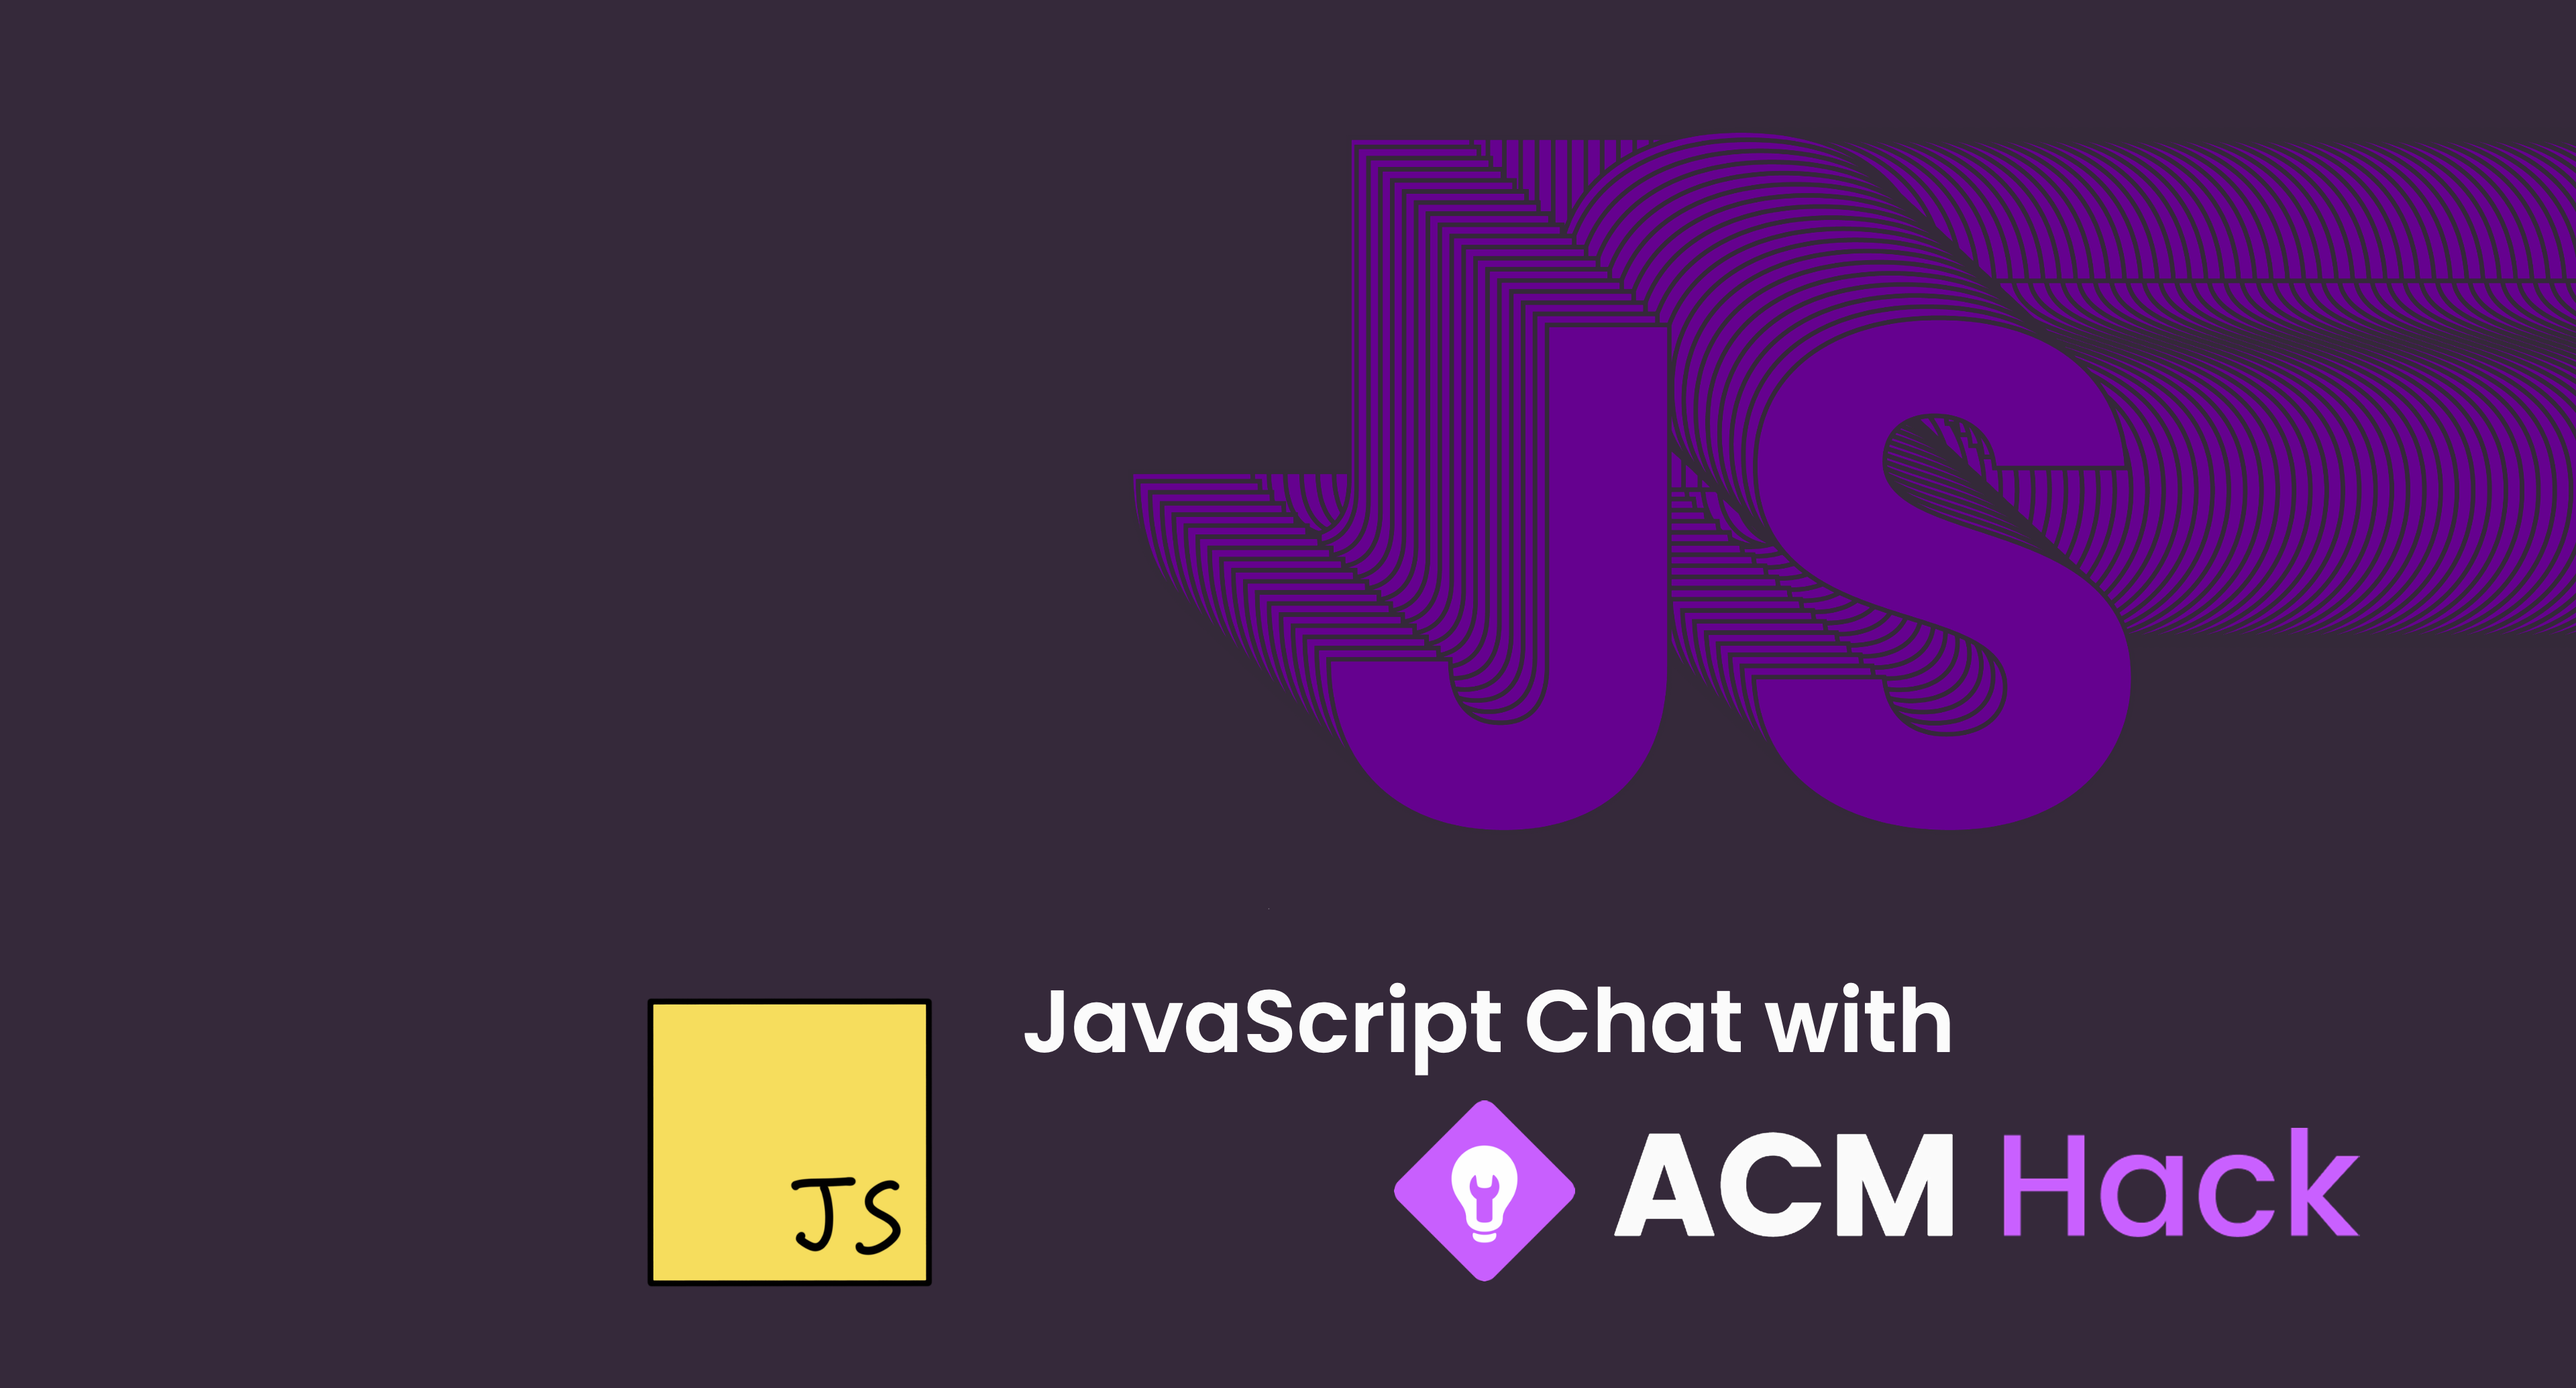
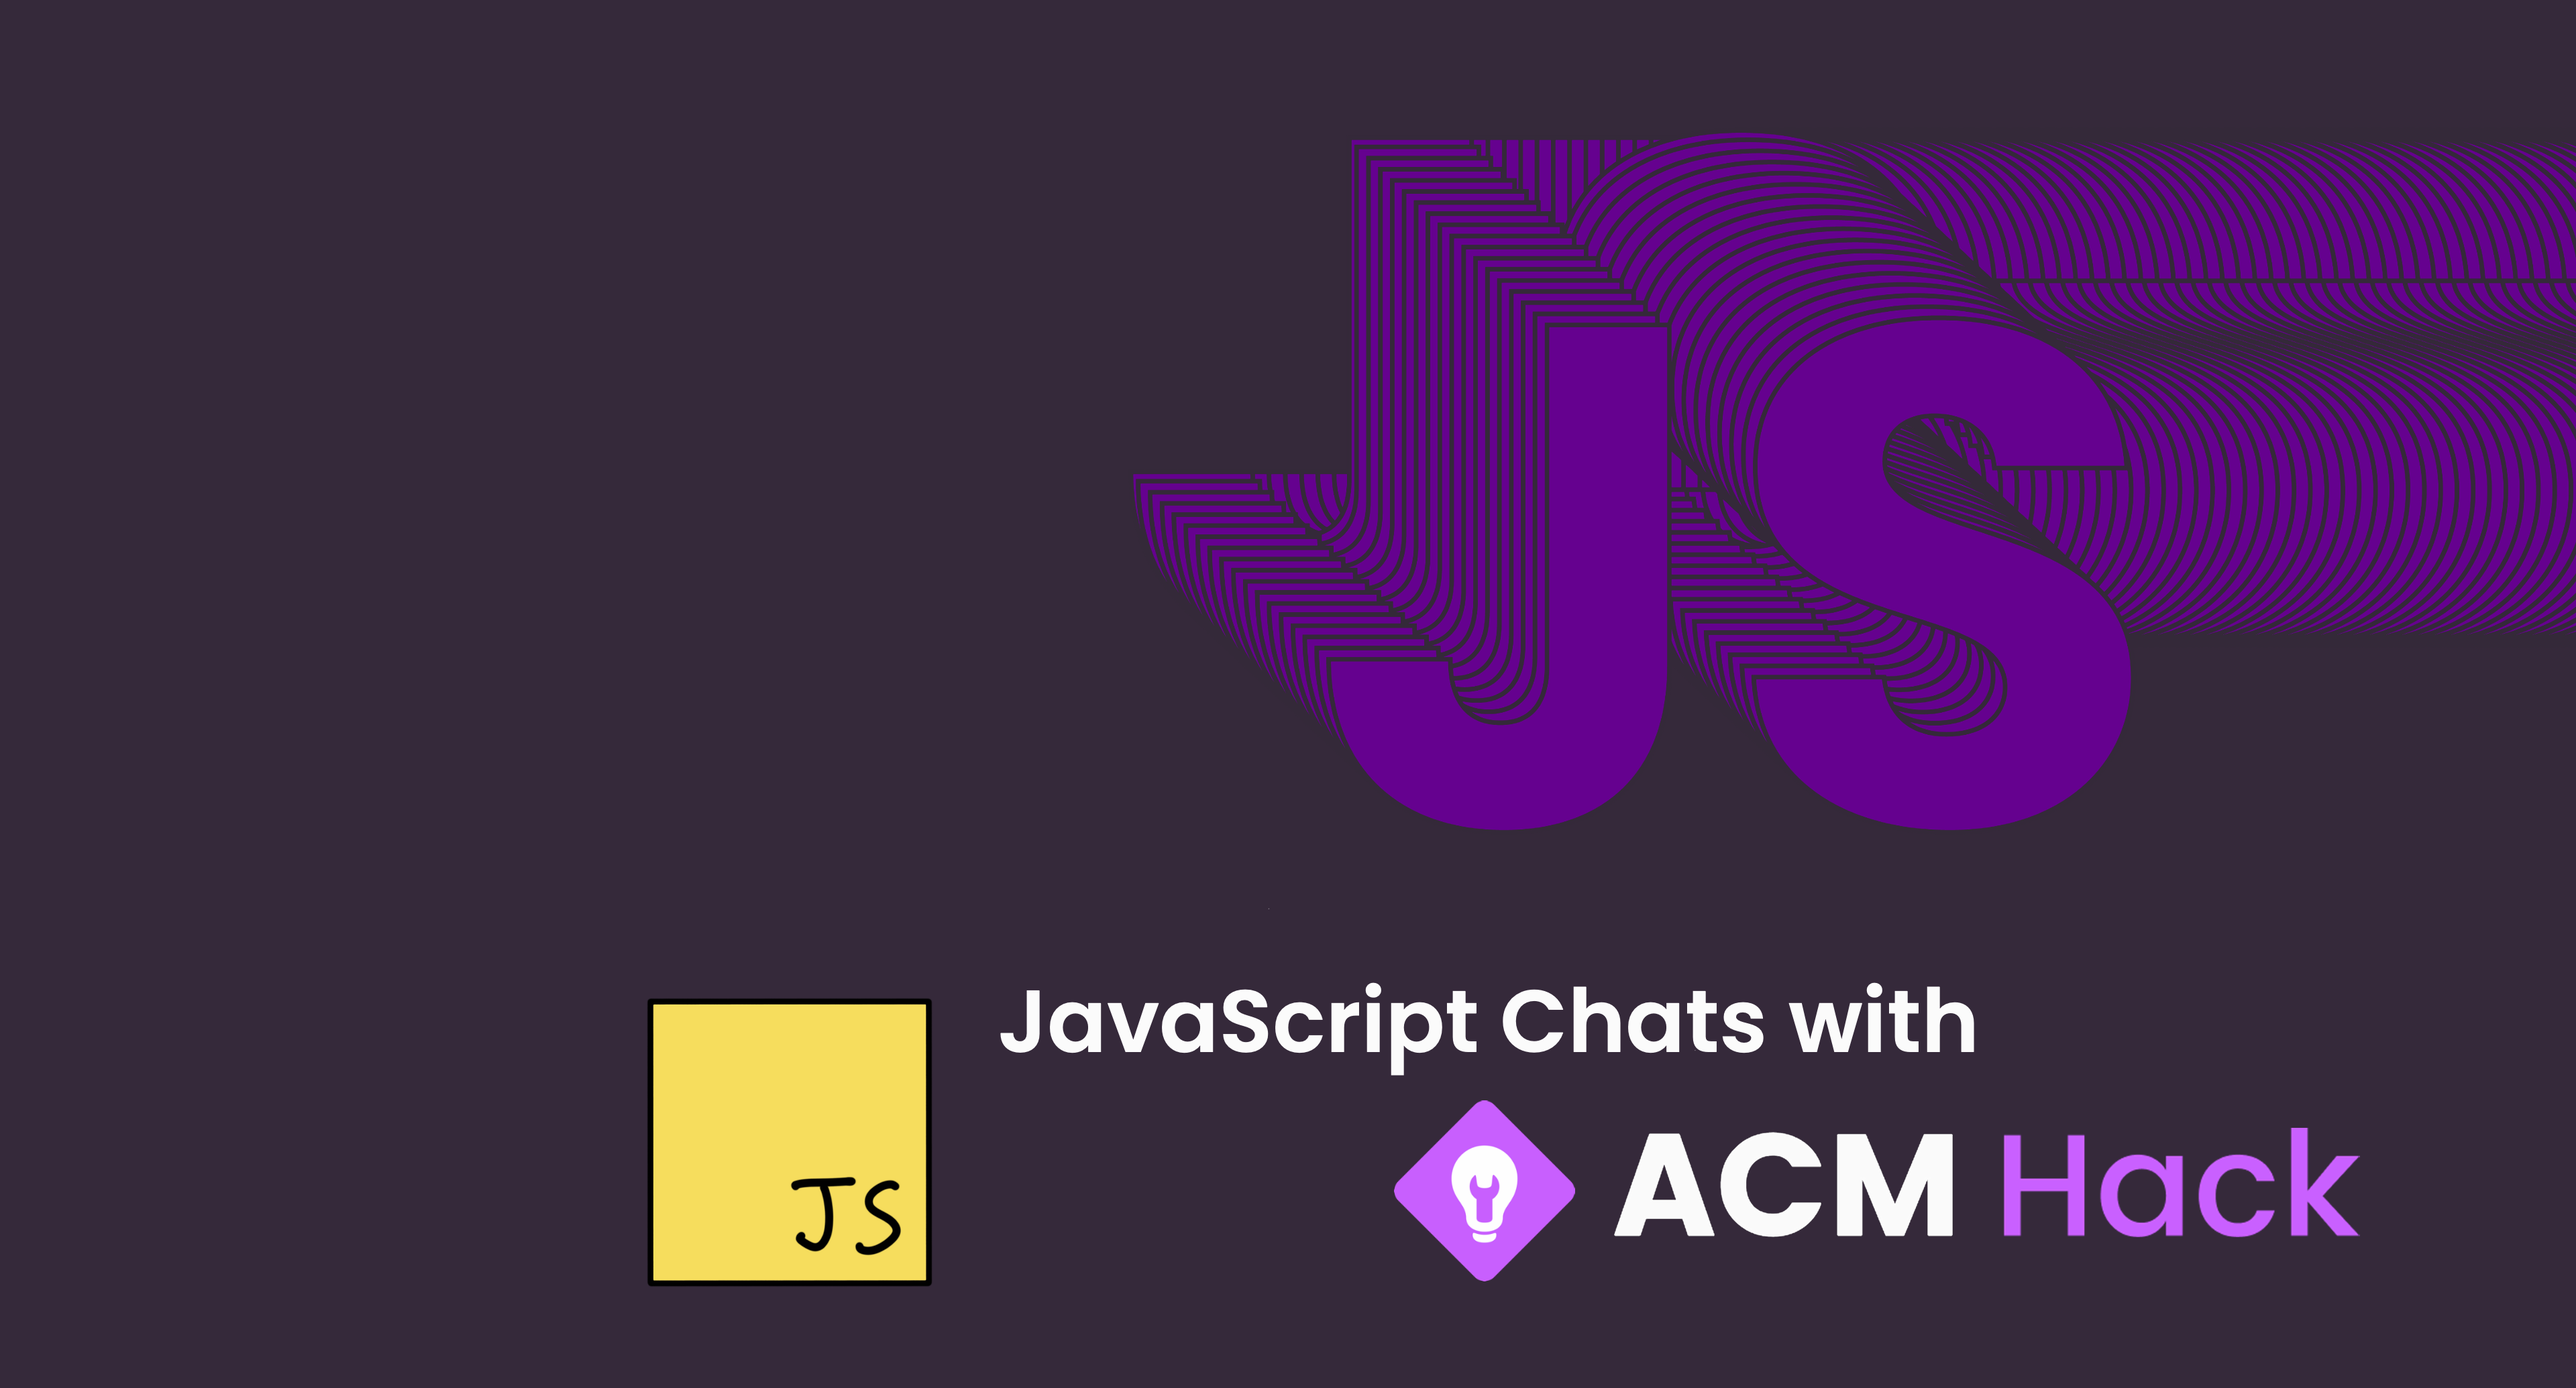
Chat -> Chats

Changed region(s): [[0.375, 0.7111, 0.7812, 0.7729]]

diff --git a/src/data/events/events.js b/src/data/events/events.js
@@ -5,7 +5,7 @@ function getDateTime(year, month = 1, day = 1, hour = 0, minute = 0, second = 0)
 
 const events = [
 	{
-		name: 'JavaScript Chat with ACM Hack',
+		name: 'JavaScript Chats',
 		date: getDateTime(2019, 10, 8, 16),
 		location: 'Engineering VI 372',
 		imgFilePath: 'event/2019f-js-chat.png',
@@ -19,7 +19,7 @@ const events = [
 		detailLink: 'https://www.facebook.com/events/761474130984313/'
 	},
 	{
-		name: 'JavaScript Chat with ACM Hack',
+		name: 'JavaScript Chats',
 		date: getDateTime(2019, 10, 15, 16),
 		location: 'Engineering VI 372',
 		imgFilePath: 'event/2019f-js-chat.png'
